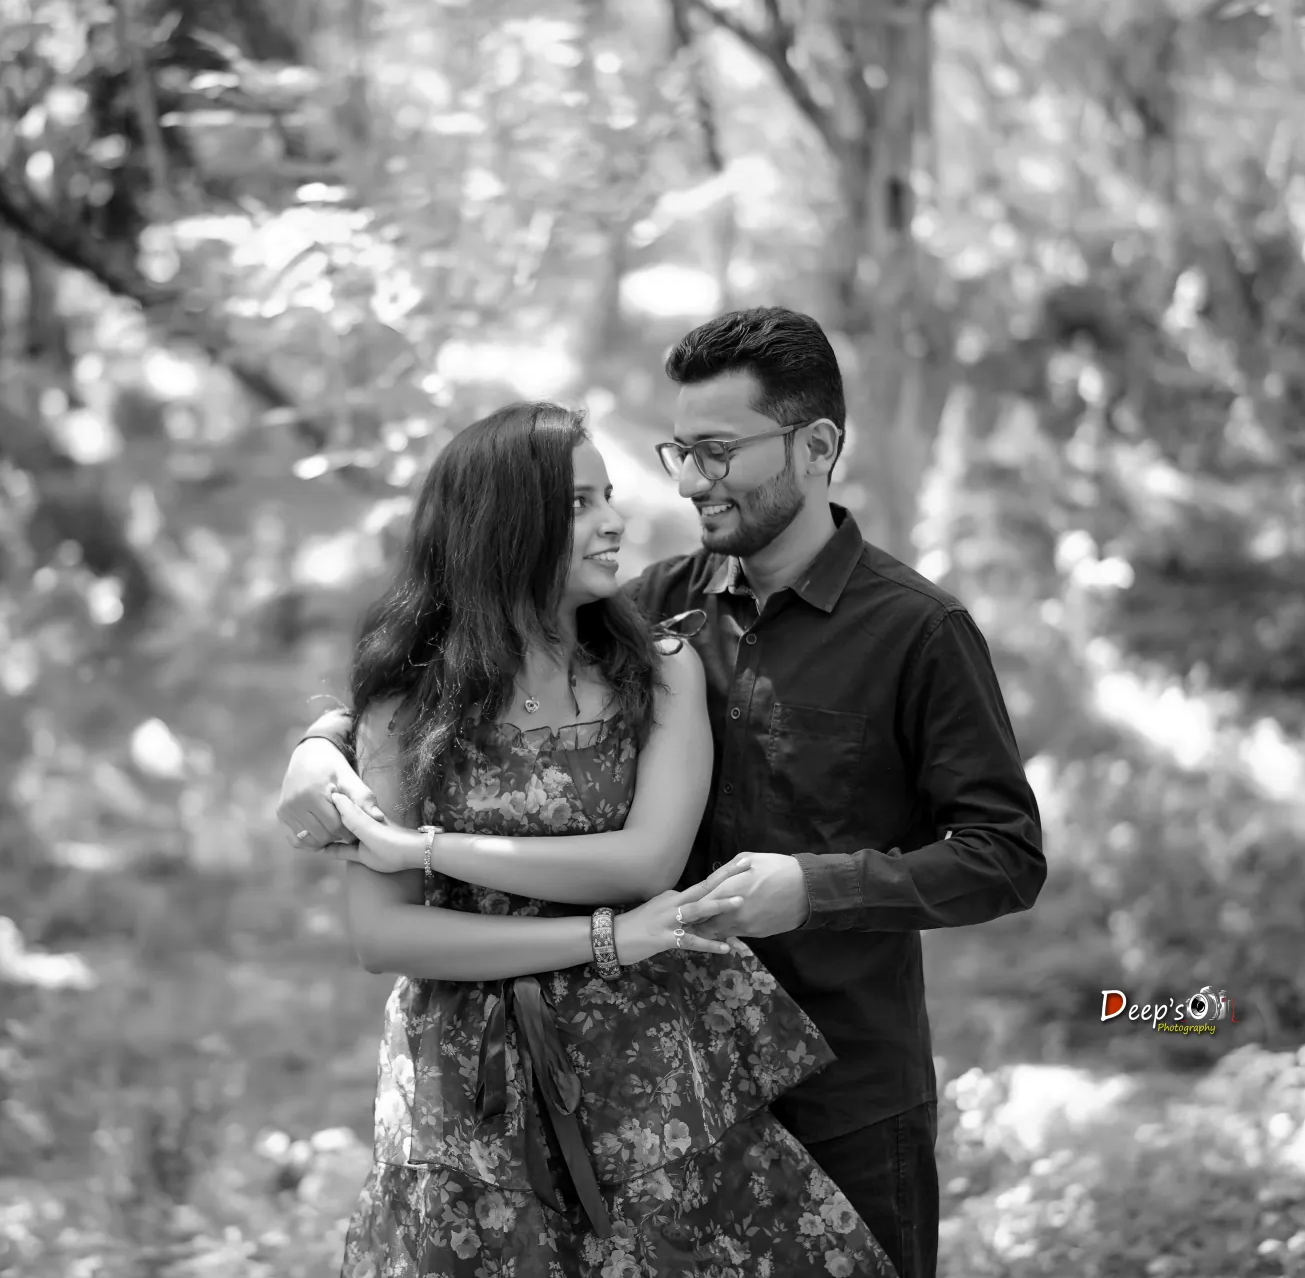
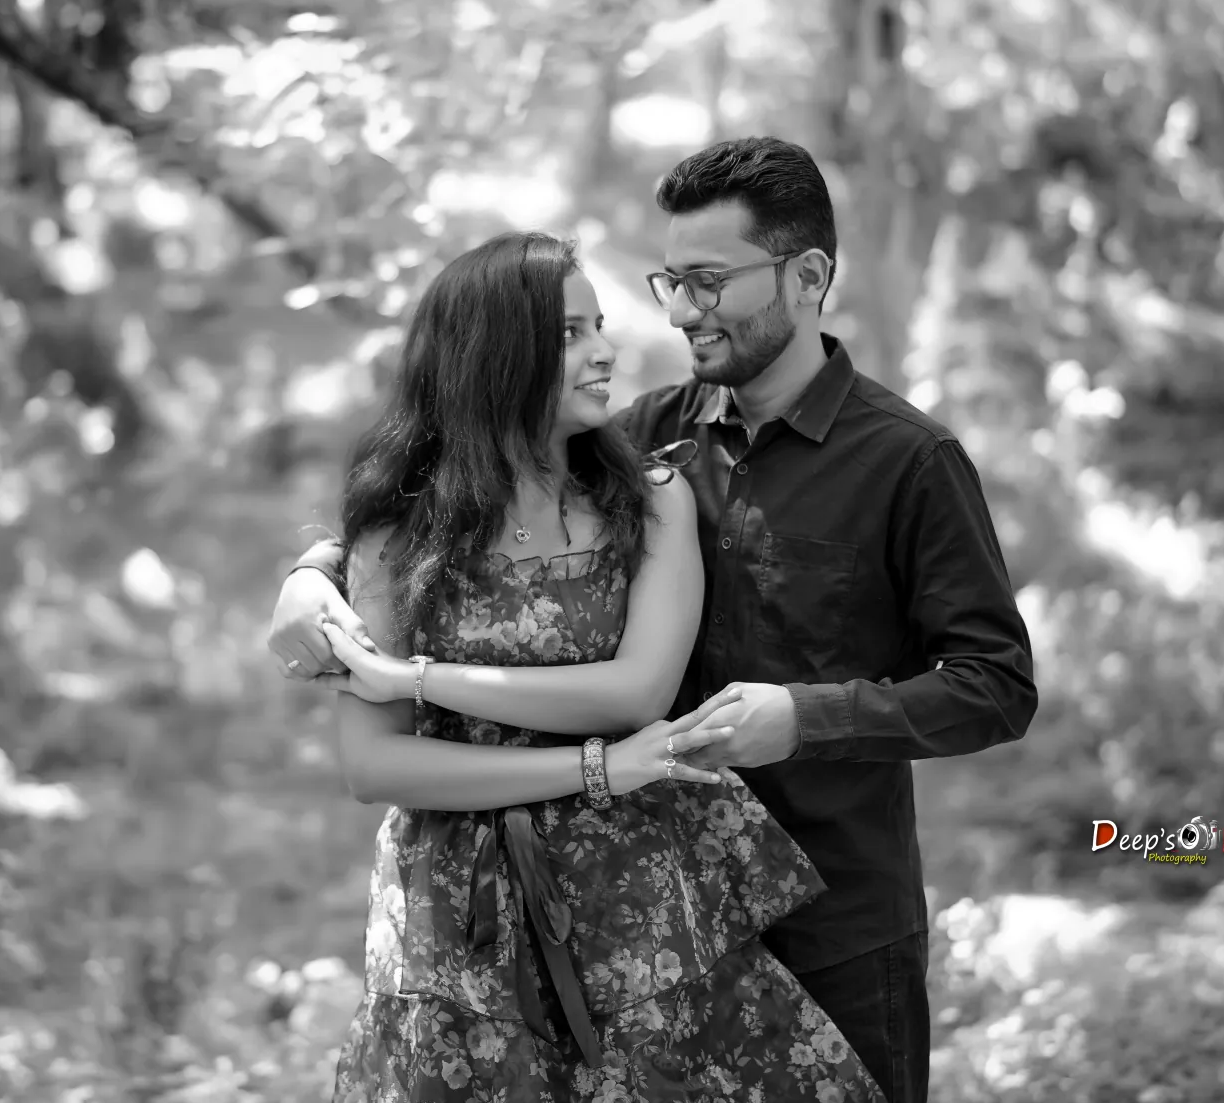
title text alignment change

diff --git a/styles.css b/styles.css
@@ -8,12 +8,17 @@
 img{max-width:100%;display:block}a{text-decoration:none;color:inherit}button,input,select,textarea{font:inherit}
 .hero{min-height:100svh;position:relative;display:grid;place-items:center;overflow:hidden;color:#fff;text-align:center}
 .hero-image{position:absolute;inset:0;width:100%;height:100%;object-fit:cover;filter:saturate(.72)}
-.hero-overlay{position:absolute;inset:0;background:linear-gradient(180deg,rgba(40,36,30,.26),rgba(40,36,30,.52))}
+.hero-overlay{position:absolute;inset:0;background:linear-gradient(to bottom,rgba(0,0,0,.42) 0%,rgba(0,0,0,.05) 48%,rgba(0,0,0,.48) 100%)}
+.hero-title{position:absolute;z-index:2;top:max(24px,env(safe-area-inset-top));left:50%;width:fit-content;max-width:calc(100% - 32px);transform:translateX(-50%);padding:clamp(18px,2.4vw,36px) clamp(24px,4vw,64px);font-family:var(--serif);font-size:clamp(3rem,8vw,7rem);font-weight:500;letter-spacing:-1px;color:#FFF8ED;text-align:center;text-shadow:0 3px 15px rgba(0,0,0,.25);animation:heroTitleFade .9s ease-out both}
+.hero-title>span{display:inline-block;background:linear-gradient(110deg,#FFF8ED 0%,#FFF8ED 38%,#fff 50%,#f4e8d2 56%,#FFF8ED 68%,#FFF8ED 100%);background-size:240% 100%;background-position:100% 0;background-clip:text;-webkit-background-clip:text;color:transparent;-webkit-text-fill-color:transparent;animation:heroNameShimmer 5s ease-in-out 1s infinite}
+.hero-title .ampersand{color:#D6BD91;font-style:italic}
+@keyframes heroTitleFade{from{opacity:0;transform:translate(-50%,-12px)}to{opacity:1;transform:translate(-50%,0)}}
+@keyframes heroNameShimmer{0%,70%,100%{background-position:100% 0}85%{background-position:0 0}}
 .music-btn.sticky-music-btn{position:fixed;z-index:20;right:max(16px,env(safe-area-inset-right,0px));bottom:max(16px,env(safe-area-inset-bottom,0px));display:inline-flex;align-items:center;justify-content:center;gap:9px;min-height:48px;padding:13px 22px;border:0;border-radius:999px;background:var(--ink);color:#fff;box-shadow:0 8px 25px rgba(60,40,65,.3);font-size:.72rem;font-weight:600;letter-spacing:.08em;text-transform:uppercase;white-space:nowrap;cursor:pointer;transition:transform .2s,box-shadow .2s,background-color .2s}
 .music-btn.sticky-music-btn:hover{transform:translateY(-2px);background:var(--plum);box-shadow:0 11px 28px rgba(60,40,65,.35)}
 .music-btn.sticky-music-btn:focus-visible{outline:3px solid var(--champagne);outline-offset:3px}
 .music-icon{font-size:1.15rem;line-height:1}
-.hero-content{position:relative;z-index:2;align-self:end;padding:40px 20px 0;margin-bottom:clamp(24px,5vh,48px)}.eyebrow{font-size:.69rem;letter-spacing:.22em;text-transform:uppercase;color:var(--champagne);margin:0 0 12px}.light{color:#f8eee5}
+.hero-content{position:relative;z-index:2;align-self:end;padding:40px 20px 0;margin-bottom:clamp(24px,5vh,48px)}.hero-title-spacer{height:clamp(202px,44.1vw,454px)}.eyebrow{font-size:.69rem;letter-spacing:.22em;text-transform:uppercase;color:var(--champagne);margin:0 0 12px}.light{color:#f8eee5}
 h1,h2{font-family:var(--serif);font-weight:500;line-height:.95;margin:0}h1{font-size:clamp(4rem,14vw,9rem);letter-spacing:-.045em}h1 i{display:block;font-size:.48em;font-weight:400;line-height:1.15;font-style:italic;color:#eee0d3}h2{font-size:clamp(3rem,8vw,5.7rem);letter-spacing:-.03em}h2 em{font-style:italic;font-weight:400}.hero-sub{font-family:var(--serif);font-size:1.4rem;margin:16px 0 22px}.date-pill{display:inline-block;border-top:1px solid rgba(255,255,255,.6);border-bottom:1px solid rgba(255,255,255,.6);padding:8px 25px;letter-spacing:.16em;font-size:.78rem}
 .primary-btn,.outline-btn{border:0;cursor:pointer;display:inline-flex;align-items:center;justify-content:center;gap:8px;padding:13px 22px;letter-spacing:.08em;font-size:.72rem;text-transform:uppercase;transition:.3s}.primary-btn{background:var(--ink);color:#fff;margin-top:25px}.hero .primary-btn{background:rgba(255,255,255,.94);color:var(--ink)}.primary-btn:hover{transform:translateY(-2px);opacity:.9}.outline-btn{border:1px solid var(--ink);margin-top:25px}.outline-btn:hover{background:var(--ink);color:#fff}
 .section{padding:110px max(22px,6vw)}.section-heading{text-align:center;margin-bottom:55px}.countdown-section{text-align:center;background:var(--paper)}.countdown-section h2{font-size:clamp(2.5rem,6vw,4rem)}.countdown{display:grid;grid-template-columns:repeat(4,1fr);max-width:760px;margin:55px auto 0;border-top:1px solid var(--line);border-bottom:1px solid var(--line)}.countdown div{padding:25px 10px;border-right:1px solid var(--line)}.countdown div:last-child{border:0}.countdown strong{font-family:var(--serif);font-size:clamp(2.7rem,6vw,4.5rem);font-weight:400;display:block}.countdown span{font-size:.65rem;text-transform:uppercase;letter-spacing:.16em;color:var(--muted)}
@@ -21,7 +26,7 @@ h1,h2{font-family:var(--serif);font-weight:500;line-height:.95;margin:0}h1{font-
 .events-grid{max-width:1000px;margin:auto;display:grid;grid-template-columns:repeat(auto-fit,minmax(280px,1fr));gap:20px}.event-card{background:var(--paper);padding:42px 35px;text-align:center;border:1px solid var(--line);position:relative}.event-card:before{content:"✿";font-family:var(--serif);color:var(--sage);font-size:2rem}.event-card h3{font-family:var(--serif);font-size:2.1rem;font-weight:500;margin:12px 0}.event-meta{font-size:.78rem;letter-spacing:.1em;text-transform:uppercase;color:var(--muted);margin:6px 0}.event-address{font-size:.9rem;color:var(--muted)}
 .location-section{background:#e5e4d9;padding:90px 6vw}.location-inner{max-width:1100px;margin:auto;display:grid;grid-template-columns:1fr 1fr;gap:8%;align-items:center}.location-section h2{font-size:clamp(3rem,6vw,5rem)}.venue-line{display:flex;gap:14px;margin-top:35px}.venue-line>span{font-size:1.5rem}.venue-line strong{font-family:var(--serif);font-size:1.5rem;font-weight:500}.venue-line p{margin:4px 0;color:var(--muted);max-width:430px}.map-card{min-height:350px;background:linear-gradient(135deg,#dddccf,#eeece2);border:10px solid rgba(255,255,255,.55);display:grid;place-items:center}.map-placeholder{text-align:center}.map-placeholder>span{font-size:2.8rem;color:#8d9a84;display:block}.map-placeholder strong{font-family:var(--serif);font-size:2rem;font-weight:500;display:block}.map-placeholder small{display:block;color:var(--muted);margin:4px 0 18px}.map-placeholder a{font-size:.7rem;letter-spacing:.1em;text-transform:uppercase;text-decoration:underline}
 .qr-card{min-height:0;padding:24px;background:var(--paper);align-content:center;gap:12px}.location-qr{display:block;width:min(100%,360px);aspect-ratio:1;object-fit:contain;background:#fff}.qr-card p{margin:0;color:var(--ink);font-size:.9rem;line-height:1.4;text-align:center}
-.gallery-section{background:var(--paper)}.gallery{max-width:1100px;margin:auto;display:grid;grid-template-columns:repeat(12,1fr);grid-auto-rows:150px;gap:12px}.gallery-item{overflow:hidden;cursor:pointer;background:#eee}.gallery-item img{width:100%;height:100%;object-fit:cover;transition:transform .6s}.gallery-item:hover img{transform:scale(1.04)}.g1{grid-column:span 7;grid-row:span 3}.g2{grid-column:span 5;grid-row:span 2}.g3{grid-column:span 5;grid-row:span 2}.g4{grid-column:span 4;grid-row:span 2}.g5{grid-column:span 4;grid-row:span 2}.g6{grid-column:span 4;grid-row:span 2}.g7{grid-column:span 6;grid-row:span 2}.g8{grid-column:span 6;grid-row:span 2}.g9,.g10,.g11,.g12{grid-column:span 3;grid-row:span 2}
+.gallery-section{position:relative;background:linear-gradient(rgba(255,255,255,.72),rgba(255,255,255,.72)),url("optimized/hero%20copy.png") center 35%/cover fixed no-repeat}.gallery-section>.section-heading,.gallery-section>.gallery{position:relative}.gallery{max-width:1100px;margin:auto;display:grid;grid-template-columns:repeat(12,1fr);grid-auto-rows:150px;gap:12px}.gallery-item{overflow:hidden;cursor:pointer;background:#eee}.gallery-item img{width:100%;height:100%;object-fit:cover;transition:transform .6s}.gallery-item:hover img{transform:scale(1.04)}.g1{grid-column:span 7;grid-row:span 3}.g2{grid-column:span 5;grid-row:span 2}.g3{grid-column:span 5;grid-row:span 2}.g4{grid-column:span 4;grid-row:span 2}.g5{grid-column:span 4;grid-row:span 2}.g6{grid-column:span 4;grid-row:span 2}.g7{grid-column:span 6;grid-row:span 2}.g8{grid-column:span 6;grid-row:span 2}.g9,.g10,.g11,.g12{grid-column:span 3;grid-row:span 2}
 .message-section{text-align:center}.message-card{max-width:800px;margin:auto;padding:80px 30px;border-top:1px solid var(--line);border-bottom:1px solid var(--line);position:relative}.quote-mark{font-family:var(--serif);font-size:7rem;color:var(--blush);position:absolute;top:25px;left:50%;transform:translateX(-50%);line-height:1}.message-card h2{font-size:clamp(2.8rem,6vw,4.8rem);margin:15px 0 25px}.message-card>p:not(.eyebrow){max-width:650px;margin:auto;color:var(--muted)}.signature{font-family:var(--serif);font-size:1.6rem;margin-top:25px}
 .music-btn{border:1px solid var(--line);background:transparent;padding:11px 18px;cursor:pointer;letter-spacing:.08em;font-size:.7rem;text-transform:uppercase}.music-note{font-size:.72rem;color:var(--muted);margin:10px}.footer{text-align:center;padding:100px 20px 65px;background:#f1ece4}.footer h2{font-size:clamp(3.2rem,9vw,6rem);margin:12px 0}.footer>p:not(.eyebrow){color:var(--muted);letter-spacing:.1em;font-size:.75rem}.footer-flower{color:var(--sage);font-size:2.5rem}.heart{font-size:1.7rem;color:var(--blush);margin-top:20px}
 .lightbox{display:none;position:fixed;inset:0;z-index:100;background:rgba(25,23,20,.94);align-items:center;justify-content:center;padding:25px}.lightbox.open{display:flex}.lightbox img{max-width:94vw;max-height:88vh;object-fit:contain}.lightbox button{position:absolute;top:20px;right:25px;color:#fff;background:none;border:0;font-size:2.5rem;cursor:pointer}
@@ -29,9 +34,15 @@ h1,h2{font-family:var(--serif);font-weight:500;line-height:.95;margin:0}h1{font-
 .reveal{opacity:0;transform:translateY(22px);transition:opacity .8s ease,transform .8s ease}.reveal.visible{opacity:1;transform:none}
 
 @media(max-width:700px){
-  .section{padding:75px 20px}.hero-content{padding-top:25px;margin-bottom:clamp(64px,10vh,88px)}h1{font-size:clamp(4.2rem,20vw,6.8rem)}.hero-sub{font-size:1.2rem}.countdown{margin-top:35px}.countdown strong{font-size:2.4rem}.countdown div{padding:18px 4px}.countdown span{font-size:.53rem;letter-spacing:.08em}
+  .section{padding:75px 20px}.hero-content{padding-top:25px;margin-bottom:clamp(64px,10vh,88px)}.hero-title-spacer{height:clamp(212px,63vw,343px)}.hero-title{padding:16px clamp(16px,4vw,28px)}h1{font-size:clamp(4.2rem,20vw,6.8rem)}.hero-sub{font-size:1.2rem}.countdown{margin-top:35px}.countdown strong{font-size:2.4rem}.countdown div{padding:18px 4px}.countdown span{font-size:.53rem;letter-spacing:.08em}
   .story-grid,.location-inner{grid-template-columns:1fr;gap:45px}.story-collage{min-height:500px}.story-main{height:75%;width:76%}.story-small{width:43%;height:31%}.story-small-1{right:0;bottom:6%}.botanical-story{right:-3px}.story-intro{font-size:1.9rem}.location-section{padding:75px 20px}.map-card{min-height:270px}
   .gallery{grid-template-columns:repeat(2,1fr);grid-auto-rows:145px;gap:8px}.gallery-item{grid-column:span 1!important;grid-row:span 1!important}.g1{grid-column:span 2!important;grid-row:span 2!important}.g7,.g8{grid-column:span 2!important}
+}
+
+@media(prefers-reduced-motion:reduce){
+  .hero-title,.hero-title>span{animation:none}
+  .hero-title{opacity:1;transform:translateX(-50%)}
+  .hero-title>span{background:none;color:#FFF8ED;-webkit-text-fill-color:#FFF8ED}
 }
 
 /* Mobile-first enhancements */

diff --git a/index.html b/index.html
@@ -20,14 +20,15 @@
   <header class="hero" id="home">
     <img class="hero-image" id="heroImage" alt="" loading="eager" fetchpriority="high" decoding="async">
     <div class="hero-overlay"></div>
+    <h1 class="hero-title"><span id="brideHero"></span><i class="ampersand">&</i><span id="groomHero"></span></h1>
+    <p class="eyebrow light hero-eyebrow">Together with their families</p>
     <button class="music-btn sticky-music-btn" id="musicBtnTop" aria-pressed="false">
       <span class="music-icon" aria-hidden="true">♫</span>
       <span class="music-label">Play Our Song</span>
     </button>
     <div class="hero-content">
-      <p class="eyebrow light">Together with their families</p>
-      <h1><span id="brideHero"></span><i>&</i><span id="groomHero"></span></h1>
-      <p class="hero-sub">are getting married</p>
+      <div class="hero-title-spacer" aria-hidden="true"></div>
+      <p class="hero-sub">Together with their families are getting married</p>
       <div class="date-pill" id="heroDate"></div>
       <button class="primary-btn" data-scroll="#countdown">Explore Our Wedding</button>
     </div>
